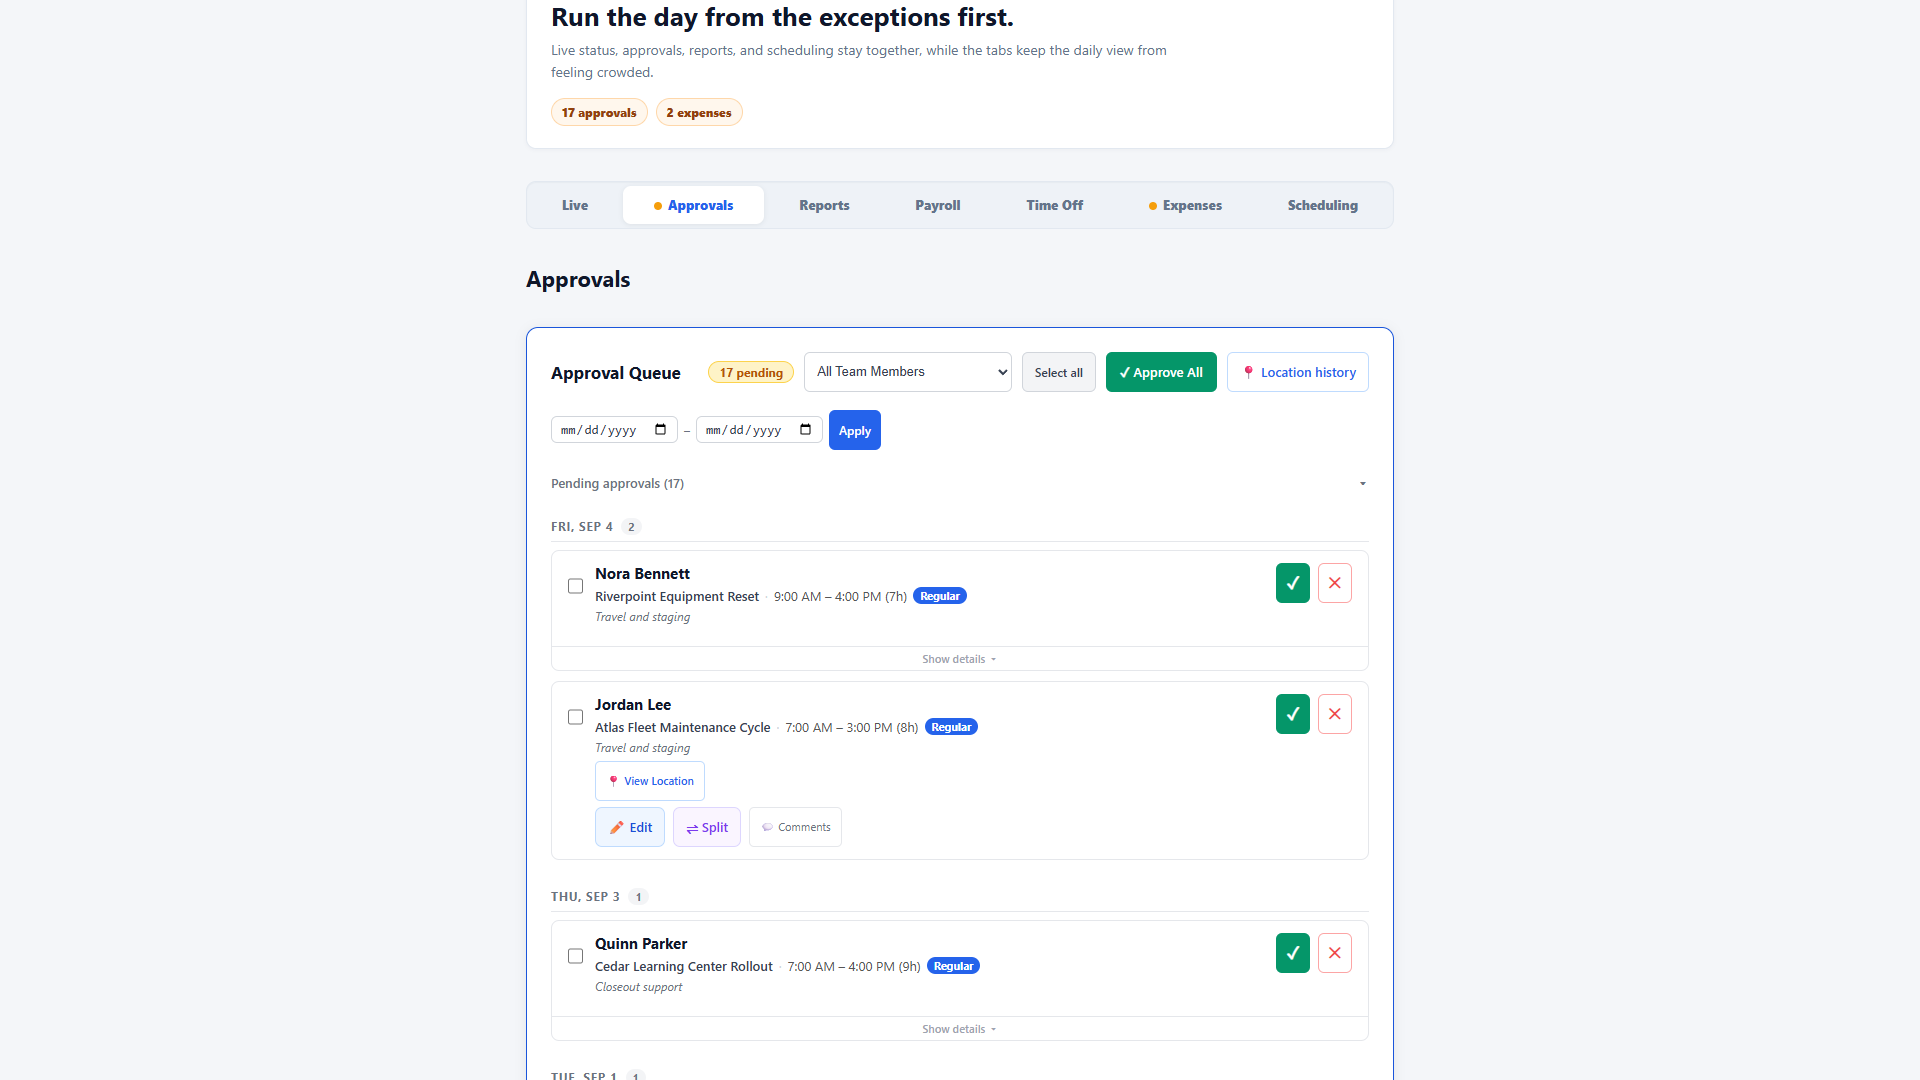
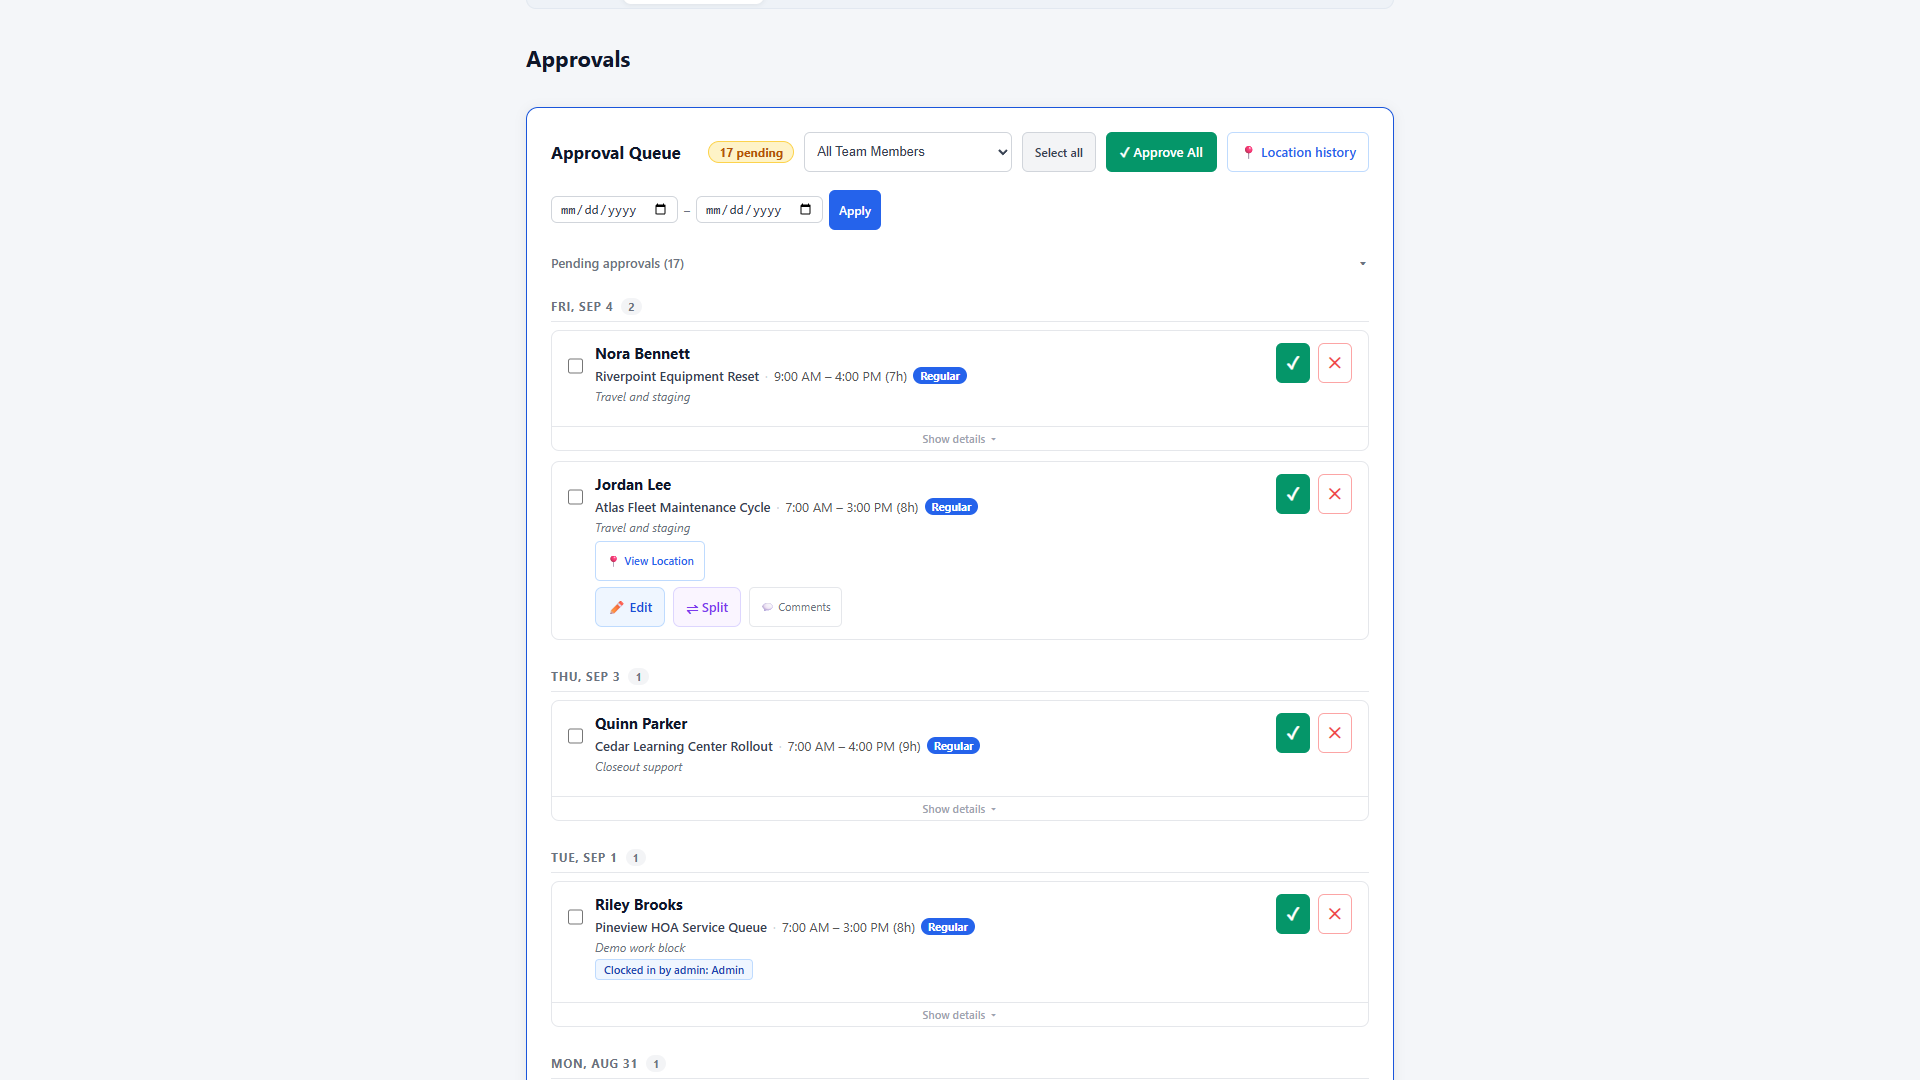
Center approval workflow in field payroll ad

diff --git a/marketing/ads/src/videos.jsx b/marketing/ads/src/videos.jsx
@@ -39,19 +39,19 @@ const fieldPayrollMoves = [
   { start: 28, end: 39, from: [960, 490], to: [820, 555], clickAt: 44 },
   { start: 54, end: 71, from: [820, 555], to: [960, 628], clickAt: 78 },
   { start: 135, end: 151, from: [960, 540], to: [690, 385], clickAt: 155 },
-  { start: 195, end: 211, from: [960, 540], to: [960, 790], clickAt: 219 },
-  { start: 230, end: 248, from: [960, 790], to: [650, 780], clickAt: 258 },
-  { start: 270, end: 278, from: [650, 780], to: [900, 952] },
-  { start: 315, end: 323, from: [900, 952], to: [650, 780], clickAt: 330 },
-  { start: 340, end: 356, from: [650, 780], to: [707, 828], clickAt: 362 },
-  { start: 374, end: 394, from: [707, 828], to: [1118, 790], clickAt: 400 },
-  { start: 436, end: 447, from: [1118, 790], to: [1255, 902], clickAt: 451 },
-  { start: 458, end: 463, from: [1255, 902], to: [1255, 725], clickAt: 466 },
-  { start: 479, end: 498, from: [1255, 725], to: [980, 1012], clickAt: 510 },
-  { start: 527, end: 537, from: [980, 1012], to: [780, 905] },
-  { start: 538, end: 550, from: [780, 905], to: [1020, 905] },
-  { start: 565, end: 575, from: [1020, 905], to: [1293, 714], clickAt: 579 },
-  { start: 593, end: 607, from: [1293, 714], to: [1293, 714], clickAt: 613 },
+  { start: 195, end: 211, from: [960, 540], to: [960, 570], clickAt: 219 },
+  { start: 230, end: 248, from: [960, 570], to: [650, 560], clickAt: 258 },
+  { start: 270, end: 278, from: [650, 560], to: [900, 732] },
+  { start: 315, end: 323, from: [900, 732], to: [650, 560], clickAt: 330 },
+  { start: 340, end: 356, from: [650, 560], to: [707, 608], clickAt: 362 },
+  { start: 374, end: 394, from: [707, 608], to: [1118, 570], clickAt: 400 },
+  { start: 436, end: 447, from: [1118, 570], to: [1255, 682], clickAt: 451 },
+  { start: 458, end: 463, from: [1255, 682], to: [1255, 505], clickAt: 466 },
+  { start: 479, end: 498, from: [1255, 505], to: [980, 794], clickAt: 510 },
+  { start: 527, end: 537, from: [980, 794], to: [780, 685] },
+  { start: 538, end: 550, from: [780, 685], to: [1020, 685] },
+  { start: 565, end: 575, from: [1020, 685], to: [1293, 493], clickAt: 579 },
+  { start: 593, end: 607, from: [1293, 493], to: [1293, 493], clickAt: 613 },
 ];
 
 const payrollRunStates = [
